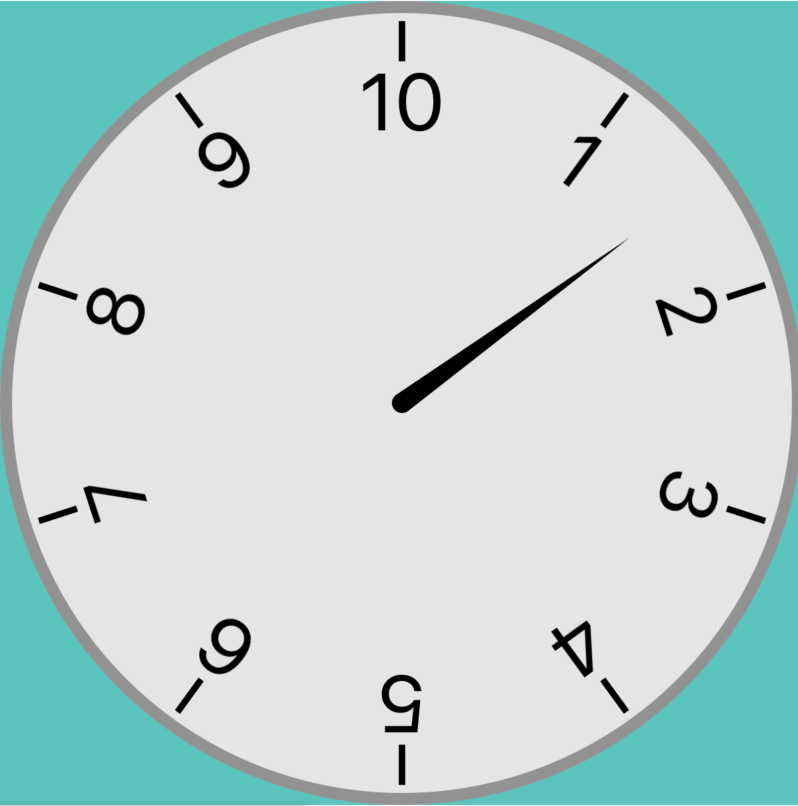
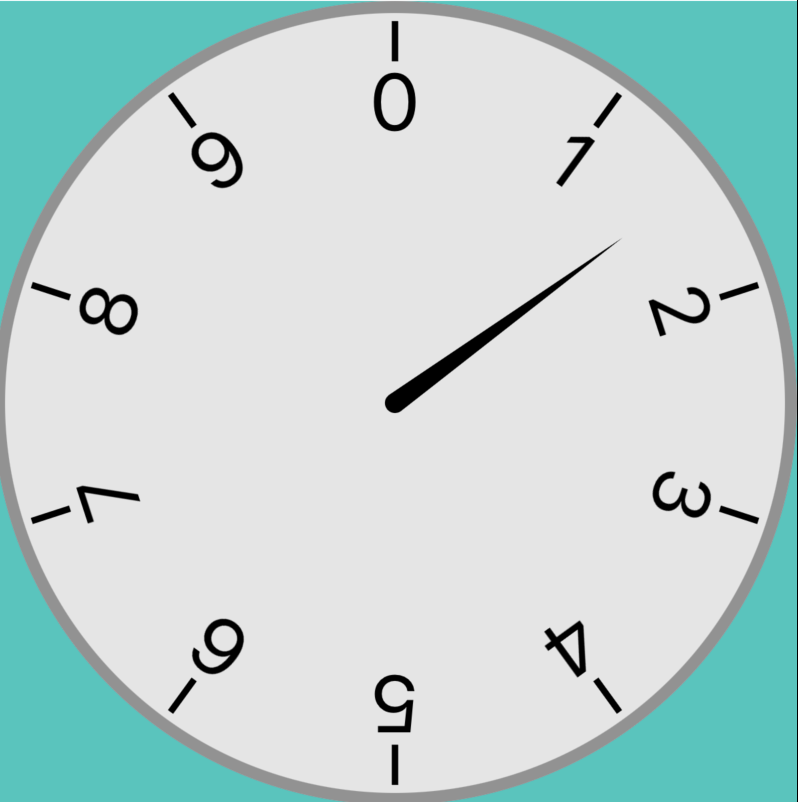
Angle calculation fix

diff --git a/Sources/SbjGauge/UpTo11/Gauge+UpTo11.swift b/Sources/SbjGauge/UpTo11/Gauge+UpTo11.swift
@@ -1,0 +1,50 @@
+//
+//  Gauge+upTo11.swift
+//  SbjGauge
+//
+//  Created by David Giovannini on 4/10/25.
+//
+
+import SwiftUI
+
+public extension Gauge {
+	enum UpTo11 {
+	}
+}
+
+public extension Gauge {
+	static func upTo11(preview: Bool = false, _ value: Double = 11) -> some View {
+		return Gauge.CompositionView(
+				preview: preview,
+				.init(upTo11: value),
+				background: { _, _ in Color(red: 0.76, green: 0.60, blue: 0.42) },
+				tickRadius: 0.7,
+				tick: { geom, _, idx, idc, radius, value in
+					Standard.TickView(
+						geom: geom,
+						style: (((idc + 2) % 2) != 0) && value != 11 ? .line(0.008) : .text(idc.description),
+						radius: radius,
+						color: .black)
+				},
+				needle: { geom, _, _, _ in
+					UpTo11.GuitarAmpKnob(geom: geom)
+				},
+				foreground: { _, _ in EmptyView()
+				}
+			)
+	}
+}
+
+public extension Gauge.Model {
+	init(upTo11 value: Double = 11) {
+		range = 0 ... 11
+		values = [value]
+		angles = .degrees(225) ... .degrees(520)
+		tickIncrements = [1]
+		tickEnds = .both
+	}
+}
+
+#Preview {
+	Gauge.upTo11(preview: true)
+}

diff --git a/Sources/SbjGauge/Model.swift b/Sources/SbjGauge/Model.swift
@@ -27,8 +27,8 @@ extension Gauge {
 		public var angles: ClosedRange<Angle> = .degrees(0) ... .degrees(360)
 
 		public func angle(_ value: Double) -> Angle {
-			let scale = value / (range.upperBound - range.lowerBound) 
-			let angle = scale * (angles.upperBound.degrees - angles.lowerBound.degrees)
+			let scale = (value - range.lowerBound) / (range.upperBound - range.lowerBound)
+			let angle = angles.lowerBound.degrees + (scale * (angles.upperBound.degrees - angles.lowerBound.degrees))
 			return .degrees(angle)
 		}
 
@@ -42,7 +42,7 @@ extension Gauge {
 			case start
 			case end
 		}
-		var tickEnds: TickEnds = .end
+		var tickEnds: TickEnds = .start
 
 		public func tickValues(inc: Double) -> [(element: Double, offset: Int)] {
 			var result: [(Double, Int)] = []

diff --git a/Sources/SbjGauge/UpTo11/GuitarAmpKnob.swift b/Sources/SbjGauge/UpTo11/GuitarAmpKnob.swift
@@ -1,0 +1,36 @@
+//
+//  GuitarAmpKnob.swift
+//  SbjGauge
+//
+//  Created by David Giovannini on 4/10/25.
+//
+
+import SwiftUI
+
+public extension Gauge.UpTo11 {
+	struct GuitarAmpKnob: View {
+		let geom: GeometryProxy
+
+		public var body: some View {
+			Circle()
+				.fill(LinearGradient(
+					gradient: Gradient(colors: [.gray, .black]),
+					startPoint: .top,
+					endPoint: .bottom
+				))
+				.frame(width: geom.width(0.25), height: geom.width(0.25))
+				.shadow(radius: geom.radius(0.0125))
+
+			Rectangle()
+				.fill(Color.white)
+				.frame(width: geom.width(0.01), height: geom.width(0.075))
+				.offset(y: geom.width(-0.0875))
+		}
+	}
+}
+
+#Preview {
+	ZStackSquare(preview: true) {
+		Gauge.UpTo11.GuitarAmpKnob(geom: $0)
+	}
+}

diff --git a/Sources/SbjGauge/Clock/Gauge+Clock.swift b/Sources/SbjGauge/Clock/Gauge+Clock.swift
@@ -72,6 +72,7 @@ public extension Gauge.Model {
 		values = [secondPos, minutePos, hourPos, hour]
 
 		tickIncrements = [3600, 3600, 720]
+		tickEnds = .end
 	}
 }
 

diff --git a/README.md b/README.md
@@ -1,6 +1,6 @@
 # SbjGauge
 
-Custumizable znalog multi-indicator SwiftUI gauge
+Custumizable analog multi-indicator SwiftUI gauge
 
 Inspired by: https://github.com/Will-tm/WMGaugeView
 
@@ -21,8 +21,10 @@ To create the basic uncustomized gauge:
 <img src="Sample-Default.png" alt="Default" width="200">
 
 The CompositionView's constructor exposes all the view builders for the various components. I have created two other builtin schemes for the Gauge; Clock and Power.
+
 <img src="Sample-Clock.png" alt="Clock" width="200">
 <img src="Sample-Power.png" alt="Power" width="200">
+<img src="Sample-UpTo11.png" alt="11" width="200">
 
 
 
